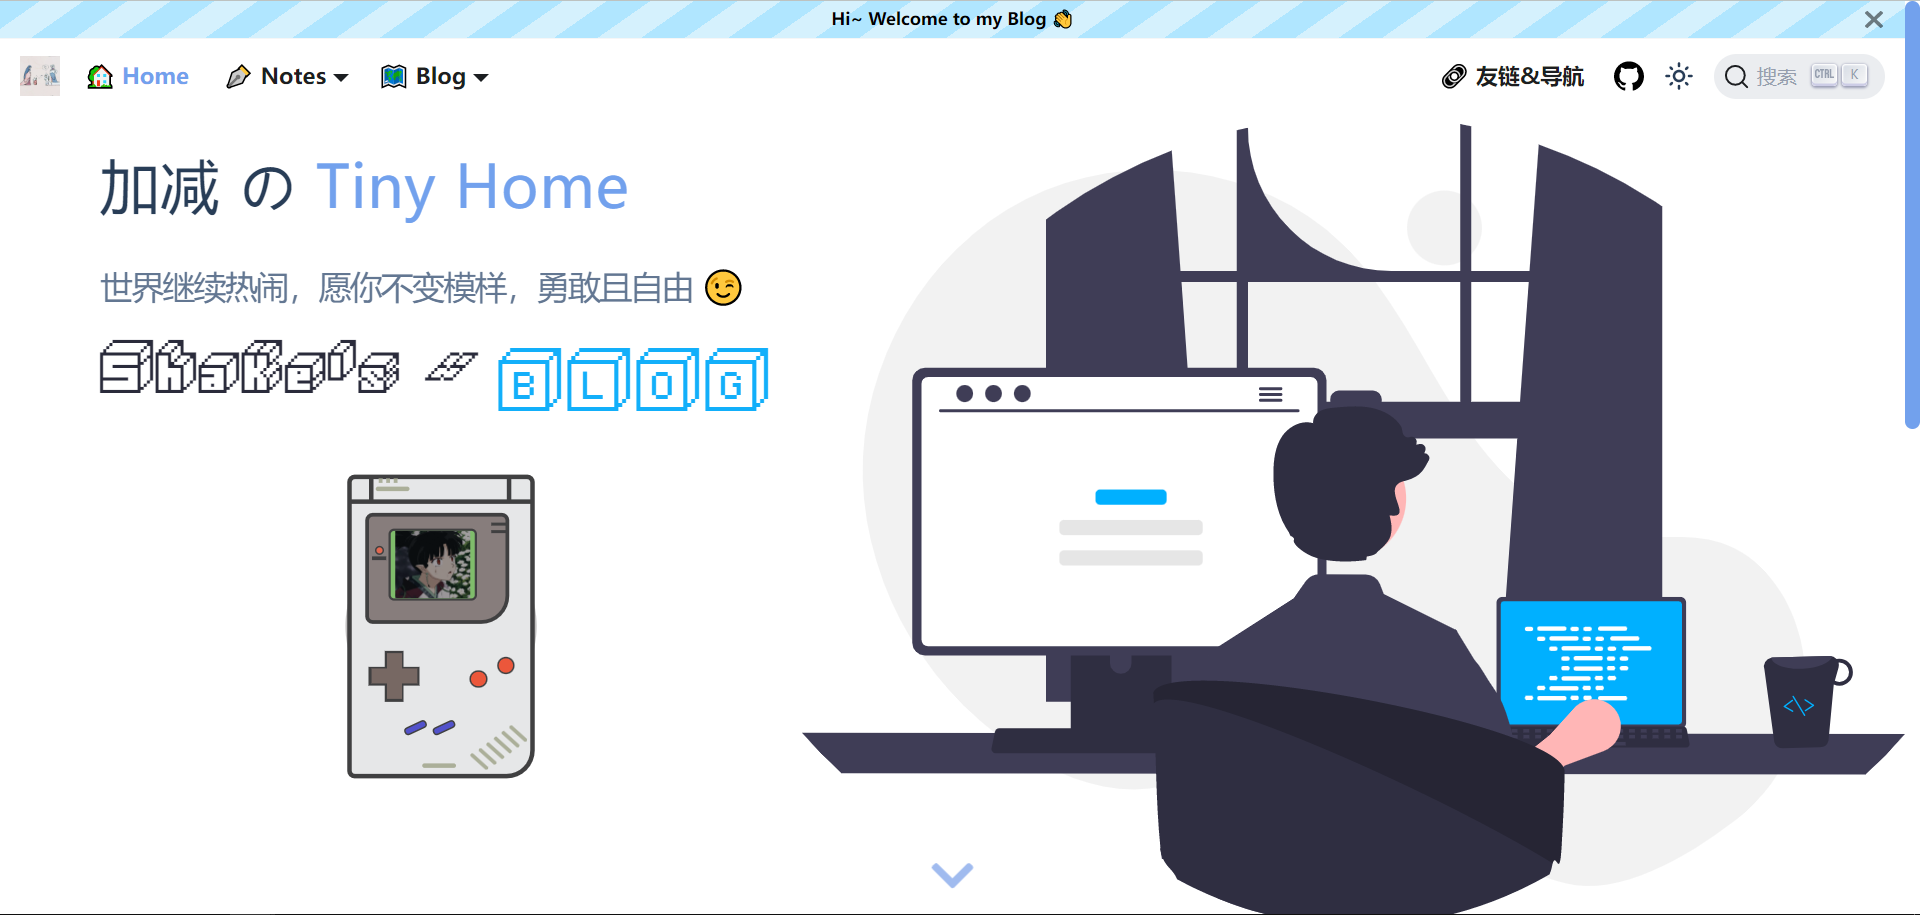
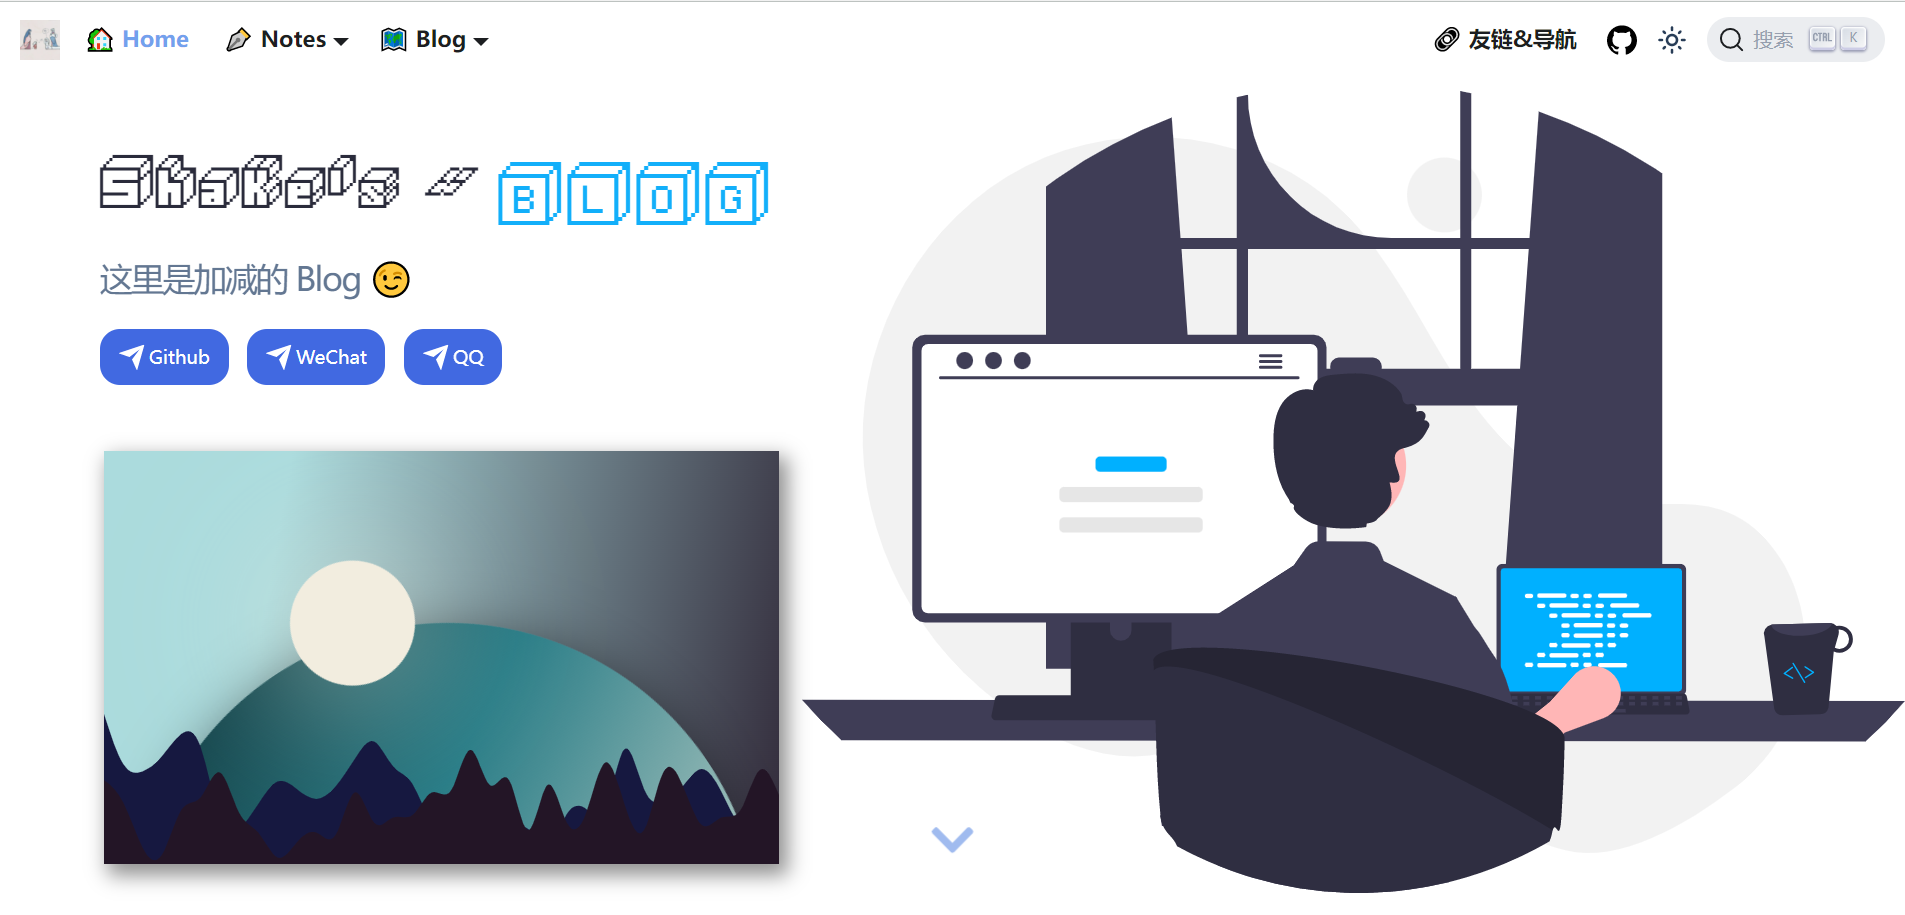
baidupush

diff --git a/docusaurus.config.js b/docusaurus.config.js
@@ -9,12 +9,12 @@ const announcementBarContent = `Hi~ Welcome to my Blog 👋`
 const config = {
   title: 'Shake-Blog',
   titleDelimiter: '🦖',
-  url: 'https://Shaking.site', // 网站的 url 地址
+  url: 'https://Shaking.site',            // 网站的 url 地址
   baseUrl: '/',                           // 解析后的地址，如果设为 wsite，则 url 解析为https://xxx.xx/site
   projectName: 'Shake-Jarjane.github.io', // {username}.github.io
   organizationName: 'Shake-Jarjane',      // username
-  deploymentBranch: 'main',             // 部署的默认分支,如果部署到同一个仓库下则可不指定
-  onBrokenLinks: 'ignore',     // 编译遇到死链怎么处理
+  deploymentBranch: 'main',               // 部署的默认分支,如果部署到同一个仓库下则可不指定
+  onBrokenLinks: 'ignore',                // 编译遇到死链怎么处理
 
   favicon: 'img/head.jpg',
   tagline: '世界继续热闹，愿你不变模样，勇敢且自由😃',
@@ -60,16 +60,16 @@ const config = {
           position: 'left',
           items: [
             {
-              label: '笔记',
-              to: 'docs/skill/',
+              label: 'Blog Building', to: 'docs/Blog_Building/',
             },
             {
-              label: '工具推荐',
-              to: 'docs/tools/',
+              label: '笔记', to: 'docs/skill/',
             },
             {
-              label: 'Test',
-              to: 'docs/Test',
+              label: '工具推荐', to: 'docs/tools/',
+            },
+            {
+              label: 'Test', to: 'docs/Test',
             }
           ],
         },
@@ -79,24 +79,20 @@ const config = {
           to: '/',
           items: [
             {
-              label: '🏷 博文&分类',
-              to: 'tags',
+              label: '🏷 博文&分类', to: 'tags',
             },
             {
-              label: '⏰ 时间轴',
-              to: 'archive',
+              label: '⏰ 时间轴', to: 'archive',
             },
           ],
         },
         {
-          label: '🔗 友链&导航',
+          label: '🔗 友链&导航', to: 'website',
           position: 'right',
-          to: 'website',
         },
         {
-          href: 'https://github.com/Shake-Jarjane',
+          href: 'https://github.com/Shake-Jarjane', className: 'header-github-link',
           position: 'right',
-          className: 'header-github-link',
         },
         // 注释就是去掉导航栏的语言下拉选择栏
         //  {
@@ -199,9 +195,6 @@ const config = {
       maxHeadingLevel: 4,
     },
     algolia: {
-      // appId: 'GV6YN1ODMO',
-      // apiKey: '50303937b0e4630bec4a20a14e3b7872',
-      // indexName: 'kuizuo',
       appId: 'HUN3GEQ3OZ',
       apiKey: '0ef3c1157ca45bf16c97b628397016ee',
       indexName: 'Shake',

diff --git a/sidebars.js b/sidebars.js
@@ -1,24 +1,48 @@
 /** @type {import('@docusaurus/plugin-content-docs').SidebarsConfig} */
 const sidebars = {
-  skill: [
-    'skill/introduction',
+  Blog_Building: [
+    'Blog_Building/introduction',
     {
-      label: 'Docusaurus 主题魔改',
+      label: 'Hexo',
+      type: 'category',
+      link: {
+        type: 'generated-index',
+      },
+      items: [
+
+      ],
+    },
+    {
+      label: 'Docusaurus',
       type: 'category',
       link: {
         type: 'doc',
-        id: 'skill/docusaurus/docusaurus-guides'
+        id: 'Blog_Building/Docusaurus/Docusaurus-guides'
       },
       items: [
-        'skill/docusaurus/docusaurus-config',
-        'skill/docusaurus/docusaurus-style',
-        'skill/docusaurus/docusaurus-component',
-        'skill/docusaurus/docusaurus-plugin',
-        'skill/docusaurus/docusaurus-search',
-        'skill/docusaurus/docusaurus-comment',
-        'skill/docusaurus/docusaurus-deploy',
+        'Blog_Building/Docusaurus/Docusaurus-环境配置',
       ],
     },
+  ],
+  skill: [
+    'skill/introduction',
+    // {
+    //   label: 'Docusaurus 主题魔改',
+    //   type: 'category',
+    //   link: {
+    //     type: 'doc',
+    //     id: 'skill/docusaurus/docusaurus-guides'
+    //   },
+    //   items: [
+    //     'skill/docusaurus/docusaurus-config',
+    //     'skill/docusaurus/docusaurus-style',
+    //     'skill/docusaurus/docusaurus-component',
+    //     'skill/docusaurus/docusaurus-plugin',
+    //     'skill/docusaurus/docusaurus-search',
+    //     'skill/docusaurus/docusaurus-comment',
+    //     'skill/docusaurus/docusaurus-deploy',
+    //   ],
+    // },
   ],
   tools: [
     'tools/introduction',

diff --git a/src/components/Hero/styles.module.scss b/src/components/Hero/styles.module.scss
@@ -672,26 +672,7 @@ html[data-theme='dark'] .card:hover .back::before {
   display: flex;
 }
 
-/* 首页底下的按钮 */ 
-// button {
-//   width: 20%;
-//   font-family: inherit;
-//   font-size: 10px;
-//   background: royalblue;
-//   color: white;
-//   padding: 0.7em 1em;
-//   padding-left: 1.1em;
-//   align-items: center;
-//   justify-content: space-between;
-//   position: relative;
-  
-//   border: none;
-//   border-radius: 16px;
-//   overflow: hidden;
-//   transition: all 0.2s;
-//   left: 10em;
-// }
-
+/* 首页新的社交图标 */ 
 button {
   font-family: inherit;
   font-size: 15px;
@@ -747,4 +728,6 @@ button:active {
     transform: translateY(-0.1em);
   }
 }
+
+
 

diff --git a/src/components/Hero/index.tsx b/src/components/Hero/index.tsx
@@ -183,7 +183,7 @@ function Hero() {
                     </button>
                   </a><img width="50%" className="dropdown__menu"src='../img/qq.jpg'/>
                 </a>
-              </div><br/><br/>
+              </div><br/>
 
             <div>
               {/* <HomepageInfo /> */}

diff --git a/baidu_verify_codeva-tz74Pkwt3R.html b/baidu_verify_codeva-tz74Pkwt3R.html
@@ -1,0 +1,1 @@
+77c278599de3e0c2aa509ebf9681d53a

diff --git a/docs/Blog_Building/Docusaurus/guides.md b/docs/Blog_Building/Docusaurus/guides.md
@@ -1,0 +1,20 @@
+---
+id: Docusaurus-guides
+slug: /Docusaurus-guides
+title: Docusaurus 养成记录
+authors: Shake
+date: 2023/01/21
+last_update:
+  date: 2023/01/21
+keywords: ['guides', 'Docusaurus', 'Docusaurus-guides']
+---
+
+- 这里记录着我搭建 [Docusaurus](https://docusaurus.io/) 的部分踩坑过程，希望能够给正在搭建 Docusaurus 的小伙伴一些帮助，可行性均验证过，可放心食用。  
+
+- 本博客使用的是 [Docusaurus 2.x](https://docusaurus.io/zh-CN/blog/2022/08/01/announcing-docusaurus-2.0) 版本，是基于 [kuizuo](https://kuizuo.cn/) 博主的源码基础上进行修改。
+
+- 如果你喜欢我这个主题，源码是开源的，可以到我的 [Github](https://github.com/Shake-Jarjane/Docusaurus-Blog/) 仓库直接 fork 或者 git clone 均可。
+
+import DocCardList from '@theme/DocCardList'; import {useCurrentSidebarCategory} from '@docusaurus/theme-common';
+
+<DocCardList items={useCurrentSidebarCategory().items}/>

diff --git a/docs/Blog_Building/introduction.md b/docs/Blog_Building/introduction.md
@@ -1,0 +1,17 @@
+---
+id: introduction
+slug: /Blog_Building
+title: 记录 Blog 搭建的部分过程
+date: 2023/01/21
+last_update:
+  date: 2023/01/21
+keywords:
+  - Blog
+---
+
+这里记录着我搭建博客的部分踩坑过程，分享在这里希望能够给遇到类似问题或者需要类似教程的小伙伴一些帮助，尽量少走弯路。
+
+对于博客框架底层的东西我也不是专业的，我的搭建的过程可以说是一通胡乱摸索，但是所记录的文档均是我运行成功的，可放心食用（如果有版本改动不一定适用）
+
+
+**如果遇到了和我不一样的情况，或者参考了我的步骤达不到预期效果，不要慌，要有耐心，要善于利用搜索引擎**

diff --git a/docs/skill/docusaurus/guides1.md b/docs/skill/docusaurus/guides1.md
@@ -1,6 +1,6 @@
 ---
-id: docusaurus-guides
-slug: /docusaurus-guides
+id: docusaurus-guides1
+slug: /docusaurus-guides1
 title: Docusaurus 主题魔改
 authors: kuizuo
 keywords: ['guides', 'docusaurus', 'docusaurus-guides']
@@ -12,6 +12,4 @@ keywords: ['guides', 'docusaurus', 'docusaurus-guides']
 
 也欢迎你使用本主题，如果你有任何问题，欢迎在 [GitHub Discussions](https://github.com/kuizuo/blog/discussions) 提出。
 
-import DocCardList from '@theme/DocCardList'; import {useCurrentSidebarCategory} from '@docusaurus/theme-common';
 
-<DocCardList items={useCurrentSidebarCategory().items}/>

diff --git a/docs/Blog_Building/Docusaurus/环境配置.md b/docs/Blog_Building/Docusaurus/环境配置.md
@@ -1,0 +1,10 @@
+---
+id: Docusaurus-环境配置
+slug: /Docusaurus-环境配置
+title: 环境配置
+date: 2023/01/21
+authors: Shake
+last_update:
+  date: 2023/01/23
+---
+
